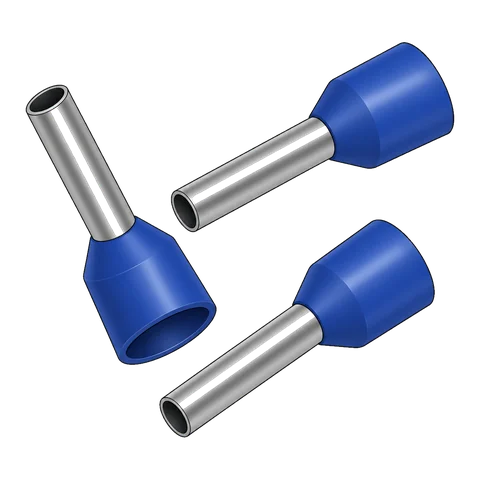
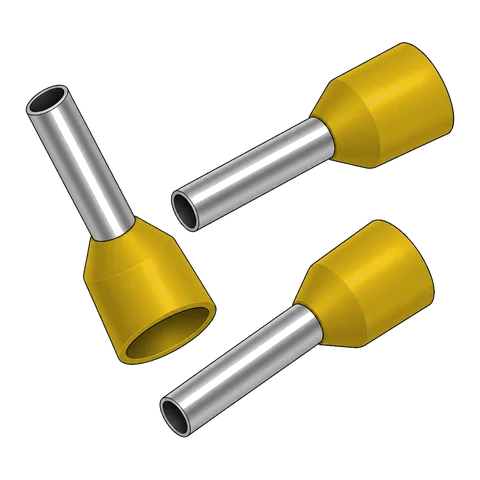
Einkaufsliste: Aderendhülsen im Farbcode nach DIN 46228-4
1,5 mm² schwarz, 4 mm² grau, 6 mm² gelb; 2,5 mm² und 16 mm² bleiben blau (Norm).
Symbolbilder aus dem blauen Bild umgefärbt (shop_bilder/aderendhuelse_<farbe>.png).

Changed region(s): [[0.1562, 0.4375, 0.4688, 0.7812], [0.625, 0.0938, 0.9688, 0.375], [0.5938, 0.4375, 0.9062, 0.75]]

diff --git a/einkaufsliste.html b/einkaufsliste.html
@@ -122,7 +122,7 @@
         <div class="wrap">
           <h2>Kabelschuhe &amp; Aderendhülsen</h2><p class="gruppe-text">Passend zu Querschnitt und Bolzengröße.</p>
           <div class="teile-grid">
-            <article class="teil" id="l0ee8b057"><div class="teil-bild"><img src="assets/teile/l0ee8b057.webp?v=921984f3" alt="Kabelschuh 1 mm² M8, isoliert (Symbolbild)" width="480" height="480" loading="lazy"><span>Symbolbild</span></div><h3>Kabelschuh 1 mm² M8, isoliert</h3><a class="product-btn" href="/go/l0ee8b057/amazon" target="_blank" rel="sponsored noopener">Bei Amazon ansehen*</a></article><article class="teil" id="l9c895e29"><div class="teil-bild"><img src="assets/teile/l9c895e29.webp?v=8645e7e8" alt="Kabelschuh 1,5 mm² Aderendhülse (Symbolbild)" width="480" height="480" loading="lazy"><span>Symbolbild</span></div><h3>Kabelschuh 1,5 mm² Aderendhülse</h3><a class="product-btn" href="/go/l9c895e29/amazon" target="_blank" rel="sponsored noopener">Bei Amazon ansehen*</a></article><article class="teil" id="ld158f763"><div class="teil-bild"><img src="assets/teile/ld158f763.webp?v=8645e7e8" alt="Kabelschuh 2,5 mm² Aderendhülse (Symbolbild)" width="480" height="480" loading="lazy"><span>Symbolbild</span></div><h3>Kabelschuh 2,5 mm² Aderendhülse</h3><a class="product-btn" href="/go/ld158f763/amazon" target="_blank" rel="sponsored noopener">Bei Amazon ansehen*</a></article><article class="teil" id="ldd794bec"><div class="teil-bild"><img src="assets/teile/ldd794bec.webp?v=8645e7e8" alt="Kabelschuh 4 mm² Aderendhülse (Symbolbild)" width="480" height="480" loading="lazy"><span>Symbolbild</span></div><h3>Kabelschuh 4 mm² Aderendhülse</h3><a class="product-btn" href="/go/ldd794bec/amazon" target="_blank" rel="sponsored noopener">Bei Amazon ansehen*</a></article><article class="teil" id="leb878ae2"><div class="teil-bild"><img src="assets/teile/leb878ae2.webp?v=e2a0b5ad" alt="Kabelschuh 4 mm² M6 (Symbolbild)" width="480" height="480" loading="lazy"><span>Symbolbild</span></div><h3>Kabelschuh 4 mm² M6</h3><a class="product-btn" href="/go/leb878ae2/amazon" target="_blank" rel="sponsored noopener">Bei Amazon ansehen*</a></article><article class="teil" id="lfa4b1c29"><div class="teil-bild"><img src="assets/teile/lfa4b1c29.webp?v=e2a0b5ad" alt="Kabelschuh 4 mm² M8 (Symbolbild)" width="480" height="480" loading="lazy"><span>Symbolbild</span></div><h3>Kabelschuh 4 mm² M8</h3><a class="product-btn" href="/go/lfa4b1c29/amazon" target="_blank" rel="sponsored noopener">Bei Amazon ansehen*</a></article><article class="teil" id="l44b7245e"><div class="teil-bild"><img src="assets/teile/l44b7245e.webp?v=8645e7e8" alt="Kabelschuh 6 mm² Aderendhülse (Symbolbild)" width="480" height="480" loading="lazy"><span>Symbolbild</span></div><h3>Kabelschuh 6 mm² Aderendhülse</h3><a class="product-btn" href="/go/l44b7245e/amazon" target="_blank" rel="sponsored noopener">Bei Amazon ansehen*</a></article><article class="teil" id="l86516439"><div class="teil-bild"><img src="assets/teile/l86516439.webp?v=e2a0b5ad" alt="Kabelschuh 6 mm² M6 (Symbolbild)" width="480" height="480" loading="lazy"><span>Symbolbild</span></div><h3>Kabelschuh 6 mm² M6</h3><a class="product-btn" href="/go/l86516439/amazon" target="_blank" rel="sponsored noopener">Bei Amazon ansehen*</a></article><article class="teil" id="l71398a24"><div class="teil-bild"><img src="assets/teile/l71398a24.webp?v=e2a0b5ad" alt="Kabelschuh 6 mm² M8 (Symbolbild)" width="480" height="480" loading="lazy"><span>Symbolbild</span></div><h3>Kabelschuh 6 mm² M8</h3><a class="product-btn" href="/go/l71398a24/amazon" target="_blank" rel="sponsored noopener">Bei Amazon ansehen*</a></article><article class="teil" id="la7ef4dd4"><div class="teil-bild"><img src="assets/teile/la7ef4dd4.webp?v=8645e7e8" alt="Kabelschuh 16 mm² Aderendhülse (Symbolbild)" width="480" height="480" loading="lazy"><span>Symbolbild</span></div><h3>Kabelschuh 16 mm² Aderendhülse</h3><a class="product-btn" href="/go/la7ef4dd4/amazon" target="_blank" rel="sponsored noopener">Bei Amazon ansehen*</a></article><article class="teil" id="l122732b5"><div class="teil-bild"><img src="assets/teile/l122732b5.webp?v=e2a0b5ad" alt="Kabelschuh 16 mm² M6 (Symbolbild)" width="480" height="480" loading="lazy"><span>Symbolbild</span></div><h3>Kabelschuh 16 mm² M6</h3><a class="product-btn" href="/go/l122732b5/amazon" target="_blank" rel="sponsored noopener">Bei Amazon ansehen*</a></article><article class="teil" id="l45be236d"><div class="teil-bild"><img src="assets/teile/l45be236d.webp?v=e2a0b5ad" alt="Kabelschuh 16 mm² M8 (Symbolbild)" width="480" height="480" loading="lazy"><span>Symbolbild</span></div><h3>Kabelschuh 16 mm² M8</h3><a class="product-btn" href="/go/l45be236d/amazon" target="_blank" rel="sponsored noopener">Bei Amazon ansehen*</a></article><article class="teil" id="l443b8965"><div class="teil-bild"><img src="assets/teile/l443b8965.webp?v=ba0e0cfc" alt="Kabelschuh 16 mm² Stiftkabelschuh (Symbolbild)" width="480" height="480" loading="lazy"><span>Symbolbild</span></div><h3>Kabelschuh 16 mm² Stiftkabelschuh</h3><a class="product-btn" href="/go/l443b8965/amazon" target="_blank" rel="sponsored noopener">Bei Amazon ansehen*</a></article><article class="teil" id="l97affb2a"><div class="teil-bild"><img src="assets/teile/l97affb2a.webp?v=e2a0b5ad" alt="Kabelschuh 25 mm² M8 (Symbolbild)" width="480" height="480" loading="lazy"><span>Symbolbild</span></div><h3>Kabelschuh 25 mm² M8</h3><a class="product-btn" href="/go/l97affb2a/amazon" target="_blank" rel="sponsored noopener">Bei Amazon ansehen*</a></article><article class="teil" id="l3556a69f"><div class="teil-bild"><img src="assets/teile/l3556a69f.webp?v=e2a0b5ad" alt="Kabelschuh 25 mm² M10 (Symbolbild)" width="480" height="480" loading="lazy"><span>Symbolbild</span></div><h3>Kabelschuh 25 mm² M10</h3><a class="product-btn" href="/go/l3556a69f/amazon" target="_blank" rel="sponsored noopener">Bei Amazon ansehen*</a></article><article class="teil" id="lce919ae8"><div class="teil-bild"><img src="assets/teile/lce919ae8.webp?v=e2a0b5ad" alt="Kabelschuh 35 mm² M6 (Symbolbild)" width="480" height="480" loading="lazy"><span>Symbolbild</span></div><h3>Kabelschuh 35 mm² M6</h3><a class="product-btn" href="/go/lce919ae8/amazon" target="_blank" rel="sponsored noopener">Bei Amazon ansehen*</a></article><article class="teil" id="le192f96b"><div class="teil-bild"><img src="assets/teile/le192f96b.webp?v=e2a0b5ad" alt="Kabelschuh 35 mm² M8 (Symbolbild)" width="480" height="480" loading="lazy"><span>Symbolbild</span></div><h3>Kabelschuh 35 mm² M8</h3><a class="product-btn" href="/go/le192f96b/amazon" target="_blank" rel="sponsored noopener">Bei Amazon ansehen*</a></article><article class="teil" id="l474d6610"><div class="teil-bild"><img src="assets/teile/l474d6610.webp?v=e2a0b5ad" alt="Kabelschuh 35 mm² M10 (Symbolbild)" width="480" height="480" loading="lazy"><span>Symbolbild</span></div><h3>Kabelschuh 35 mm² M10</h3><a class="product-btn" href="/go/l474d6610/amazon" target="_blank" rel="sponsored noopener">Bei Amazon ansehen*</a></article><article class="teil" id="la0077ab2"><div class="teil-bild"><img src="assets/teile/la0077ab2.webp?v=e2a0b5ad" alt="Kabelschuh 70 mm² M8 (Symbolbild)" width="480" height="480" loading="lazy"><span>Symbolbild</span></div><h3>Kabelschuh 70 mm² M8</h3><a class="product-btn" href="/go/la0077ab2/amazon" target="_blank" rel="sponsored noopener">Bei Amazon ansehen*</a></article><article class="teil" id="lb5de46aa"><div class="teil-bild"><img src="assets/teile/lb5de46aa.webp?v=e2a0b5ad" alt="Kabelschuh 70 mm² M10 (Symbolbild)" width="480" height="480" loading="lazy"><span>Symbolbild</span></div><h3>Kabelschuh 70 mm² M10</h3><a class="product-btn" href="/go/lb5de46aa/amazon" target="_blank" rel="sponsored noopener">Bei Amazon ansehen*</a></article><article class="teil" id="laf90c26b"><div class="teil-bild"><img src="assets/teile/laf90c26b.webp?v=e2a0b5ad" alt="Kabelschuh 95 mm² M8 (Symbolbild)" width="480" height="480" loading="lazy"><span>Symbolbild</span></div><h3>Kabelschuh 95 mm² M8</h3><a class="product-btn" href="/go/laf90c26b/amazon" target="_blank" rel="sponsored noopener">Bei Amazon ansehen*</a></article><article class="teil" id="lb65222f0"><div class="teil-bild"><img src="assets/teile/lb65222f0.webp?v=e2a0b5ad" alt="Kabelschuh 95 mm² M10 (Symbolbild)" width="480" height="480" loading="lazy"><span>Symbolbild</span></div><h3>Kabelschuh 95 mm² M10</h3><a class="product-btn" href="/go/lb65222f0/amazon" target="_blank" rel="sponsored noopener">Bei Amazon ansehen*</a></article>
+            <article class="teil" id="l0ee8b057"><div class="teil-bild"><img src="assets/teile/l0ee8b057.webp?v=921984f3" alt="Kabelschuh 1 mm² M8, isoliert (Symbolbild)" width="480" height="480" loading="lazy"><span>Symbolbild</span></div><h3>Kabelschuh 1 mm² M8, isoliert</h3><a class="product-btn" href="/go/l0ee8b057/amazon" target="_blank" rel="sponsored noopener">Bei Amazon ansehen*</a></article><article class="teil" id="l9c895e29"><div class="teil-bild"><img src="assets/teile/l9c895e29.webp?v=3b521740" alt="Kabelschuh 1,5 mm² Aderendhülse (Symbolbild)" width="480" height="480" loading="lazy"><span>Symbolbild</span></div><h3>Kabelschuh 1,5 mm² Aderendhülse</h3><a class="product-btn" href="/go/l9c895e29/amazon" target="_blank" rel="sponsored noopener">Bei Amazon ansehen*</a></article><article class="teil" id="ld158f763"><div class="teil-bild"><img src="assets/teile/ld158f763.webp?v=8645e7e8" alt="Kabelschuh 2,5 mm² Aderendhülse (Symbolbild)" width="480" height="480" loading="lazy"><span>Symbolbild</span></div><h3>Kabelschuh 2,5 mm² Aderendhülse</h3><a class="product-btn" href="/go/ld158f763/amazon" target="_blank" rel="sponsored noopener">Bei Amazon ansehen*</a></article><article class="teil" id="ldd794bec"><div class="teil-bild"><img src="assets/teile/ldd794bec.webp?v=787876a4" alt="Kabelschuh 4 mm² Aderendhülse (Symbolbild)" width="480" height="480" loading="lazy"><span>Symbolbild</span></div><h3>Kabelschuh 4 mm² Aderendhülse</h3><a class="product-btn" href="/go/ldd794bec/amazon" target="_blank" rel="sponsored noopener">Bei Amazon ansehen*</a></article><article class="teil" id="leb878ae2"><div class="teil-bild"><img src="assets/teile/leb878ae2.webp?v=e2a0b5ad" alt="Kabelschuh 4 mm² M6 (Symbolbild)" width="480" height="480" loading="lazy"><span>Symbolbild</span></div><h3>Kabelschuh 4 mm² M6</h3><a class="product-btn" href="/go/leb878ae2/amazon" target="_blank" rel="sponsored noopener">Bei Amazon ansehen*</a></article><article class="teil" id="lfa4b1c29"><div class="teil-bild"><img src="assets/teile/lfa4b1c29.webp?v=e2a0b5ad" alt="Kabelschuh 4 mm² M8 (Symbolbild)" width="480" height="480" loading="lazy"><span>Symbolbild</span></div><h3>Kabelschuh 4 mm² M8</h3><a class="product-btn" href="/go/lfa4b1c29/amazon" target="_blank" rel="sponsored noopener">Bei Amazon ansehen*</a></article><article class="teil" id="l44b7245e"><div class="teil-bild"><img src="assets/teile/l44b7245e.webp?v=ea3b9699" alt="Kabelschuh 6 mm² Aderendhülse (Symbolbild)" width="480" height="480" loading="lazy"><span>Symbolbild</span></div><h3>Kabelschuh 6 mm² Aderendhülse</h3><a class="product-btn" href="/go/l44b7245e/amazon" target="_blank" rel="sponsored noopener">Bei Amazon ansehen*</a></article><article class="teil" id="l86516439"><div class="teil-bild"><img src="assets/teile/l86516439.webp?v=e2a0b5ad" alt="Kabelschuh 6 mm² M6 (Symbolbild)" width="480" height="480" loading="lazy"><span>Symbolbild</span></div><h3>Kabelschuh 6 mm² M6</h3><a class="product-btn" href="/go/l86516439/amazon" target="_blank" rel="sponsored noopener">Bei Amazon ansehen*</a></article><article class="teil" id="l71398a24"><div class="teil-bild"><img src="assets/teile/l71398a24.webp?v=e2a0b5ad" alt="Kabelschuh 6 mm² M8 (Symbolbild)" width="480" height="480" loading="lazy"><span>Symbolbild</span></div><h3>Kabelschuh 6 mm² M8</h3><a class="product-btn" href="/go/l71398a24/amazon" target="_blank" rel="sponsored noopener">Bei Amazon ansehen*</a></article><article class="teil" id="la7ef4dd4"><div class="teil-bild"><img src="assets/teile/la7ef4dd4.webp?v=8645e7e8" alt="Kabelschuh 16 mm² Aderendhülse (Symbolbild)" width="480" height="480" loading="lazy"><span>Symbolbild</span></div><h3>Kabelschuh 16 mm² Aderendhülse</h3><a class="product-btn" href="/go/la7ef4dd4/amazon" target="_blank" rel="sponsored noopener">Bei Amazon ansehen*</a></article><article class="teil" id="l122732b5"><div class="teil-bild"><img src="assets/teile/l122732b5.webp?v=e2a0b5ad" alt="Kabelschuh 16 mm² M6 (Symbolbild)" width="480" height="480" loading="lazy"><span>Symbolbild</span></div><h3>Kabelschuh 16 mm² M6</h3><a class="product-btn" href="/go/l122732b5/amazon" target="_blank" rel="sponsored noopener">Bei Amazon ansehen*</a></article><article class="teil" id="l45be236d"><div class="teil-bild"><img src="assets/teile/l45be236d.webp?v=e2a0b5ad" alt="Kabelschuh 16 mm² M8 (Symbolbild)" width="480" height="480" loading="lazy"><span>Symbolbild</span></div><h3>Kabelschuh 16 mm² M8</h3><a class="product-btn" href="/go/l45be236d/amazon" target="_blank" rel="sponsored noopener">Bei Amazon ansehen*</a></article><article class="teil" id="l443b8965"><div class="teil-bild"><img src="assets/teile/l443b8965.webp?v=ba0e0cfc" alt="Kabelschuh 16 mm² Stiftkabelschuh (Symbolbild)" width="480" height="480" loading="lazy"><span>Symbolbild</span></div><h3>Kabelschuh 16 mm² Stiftkabelschuh</h3><a class="product-btn" href="/go/l443b8965/amazon" target="_blank" rel="sponsored noopener">Bei Amazon ansehen*</a></article><article class="teil" id="l97affb2a"><div class="teil-bild"><img src="assets/teile/l97affb2a.webp?v=e2a0b5ad" alt="Kabelschuh 25 mm² M8 (Symbolbild)" width="480" height="480" loading="lazy"><span>Symbolbild</span></div><h3>Kabelschuh 25 mm² M8</h3><a class="product-btn" href="/go/l97affb2a/amazon" target="_blank" rel="sponsored noopener">Bei Amazon ansehen*</a></article><article class="teil" id="l3556a69f"><div class="teil-bild"><img src="assets/teile/l3556a69f.webp?v=e2a0b5ad" alt="Kabelschuh 25 mm² M10 (Symbolbild)" width="480" height="480" loading="lazy"><span>Symbolbild</span></div><h3>Kabelschuh 25 mm² M10</h3><a class="product-btn" href="/go/l3556a69f/amazon" target="_blank" rel="sponsored noopener">Bei Amazon ansehen*</a></article><article class="teil" id="lce919ae8"><div class="teil-bild"><img src="assets/teile/lce919ae8.webp?v=e2a0b5ad" alt="Kabelschuh 35 mm² M6 (Symbolbild)" width="480" height="480" loading="lazy"><span>Symbolbild</span></div><h3>Kabelschuh 35 mm² M6</h3><a class="product-btn" href="/go/lce919ae8/amazon" target="_blank" rel="sponsored noopener">Bei Amazon ansehen*</a></article><article class="teil" id="le192f96b"><div class="teil-bild"><img src="assets/teile/le192f96b.webp?v=e2a0b5ad" alt="Kabelschuh 35 mm² M8 (Symbolbild)" width="480" height="480" loading="lazy"><span>Symbolbild</span></div><h3>Kabelschuh 35 mm² M8</h3><a class="product-btn" href="/go/le192f96b/amazon" target="_blank" rel="sponsored noopener">Bei Amazon ansehen*</a></article><article class="teil" id="l474d6610"><div class="teil-bild"><img src="assets/teile/l474d6610.webp?v=e2a0b5ad" alt="Kabelschuh 35 mm² M10 (Symbolbild)" width="480" height="480" loading="lazy"><span>Symbolbild</span></div><h3>Kabelschuh 35 mm² M10</h3><a class="product-btn" href="/go/l474d6610/amazon" target="_blank" rel="sponsored noopener">Bei Amazon ansehen*</a></article><article class="teil" id="la0077ab2"><div class="teil-bild"><img src="assets/teile/la0077ab2.webp?v=e2a0b5ad" alt="Kabelschuh 70 mm² M8 (Symbolbild)" width="480" height="480" loading="lazy"><span>Symbolbild</span></div><h3>Kabelschuh 70 mm² M8</h3><a class="product-btn" href="/go/la0077ab2/amazon" target="_blank" rel="sponsored noopener">Bei Amazon ansehen*</a></article><article class="teil" id="lb5de46aa"><div class="teil-bild"><img src="assets/teile/lb5de46aa.webp?v=e2a0b5ad" alt="Kabelschuh 70 mm² M10 (Symbolbild)" width="480" height="480" loading="lazy"><span>Symbolbild</span></div><h3>Kabelschuh 70 mm² M10</h3><a class="product-btn" href="/go/lb5de46aa/amazon" target="_blank" rel="sponsored noopener">Bei Amazon ansehen*</a></article><article class="teil" id="laf90c26b"><div class="teil-bild"><img src="assets/teile/laf90c26b.webp?v=e2a0b5ad" alt="Kabelschuh 95 mm² M8 (Symbolbild)" width="480" height="480" loading="lazy"><span>Symbolbild</span></div><h3>Kabelschuh 95 mm² M8</h3><a class="product-btn" href="/go/laf90c26b/amazon" target="_blank" rel="sponsored noopener">Bei Amazon ansehen*</a></article><article class="teil" id="lb65222f0"><div class="teil-bild"><img src="assets/teile/lb65222f0.webp?v=e2a0b5ad" alt="Kabelschuh 95 mm² M10 (Symbolbild)" width="480" height="480" loading="lazy"><span>Symbolbild</span></div><h3>Kabelschuh 95 mm² M10</h3><a class="product-btn" href="/go/lb65222f0/amazon" target="_blank" rel="sponsored noopener">Bei Amazon ansehen*</a></article>
           </div>
         </div>
       </section>
